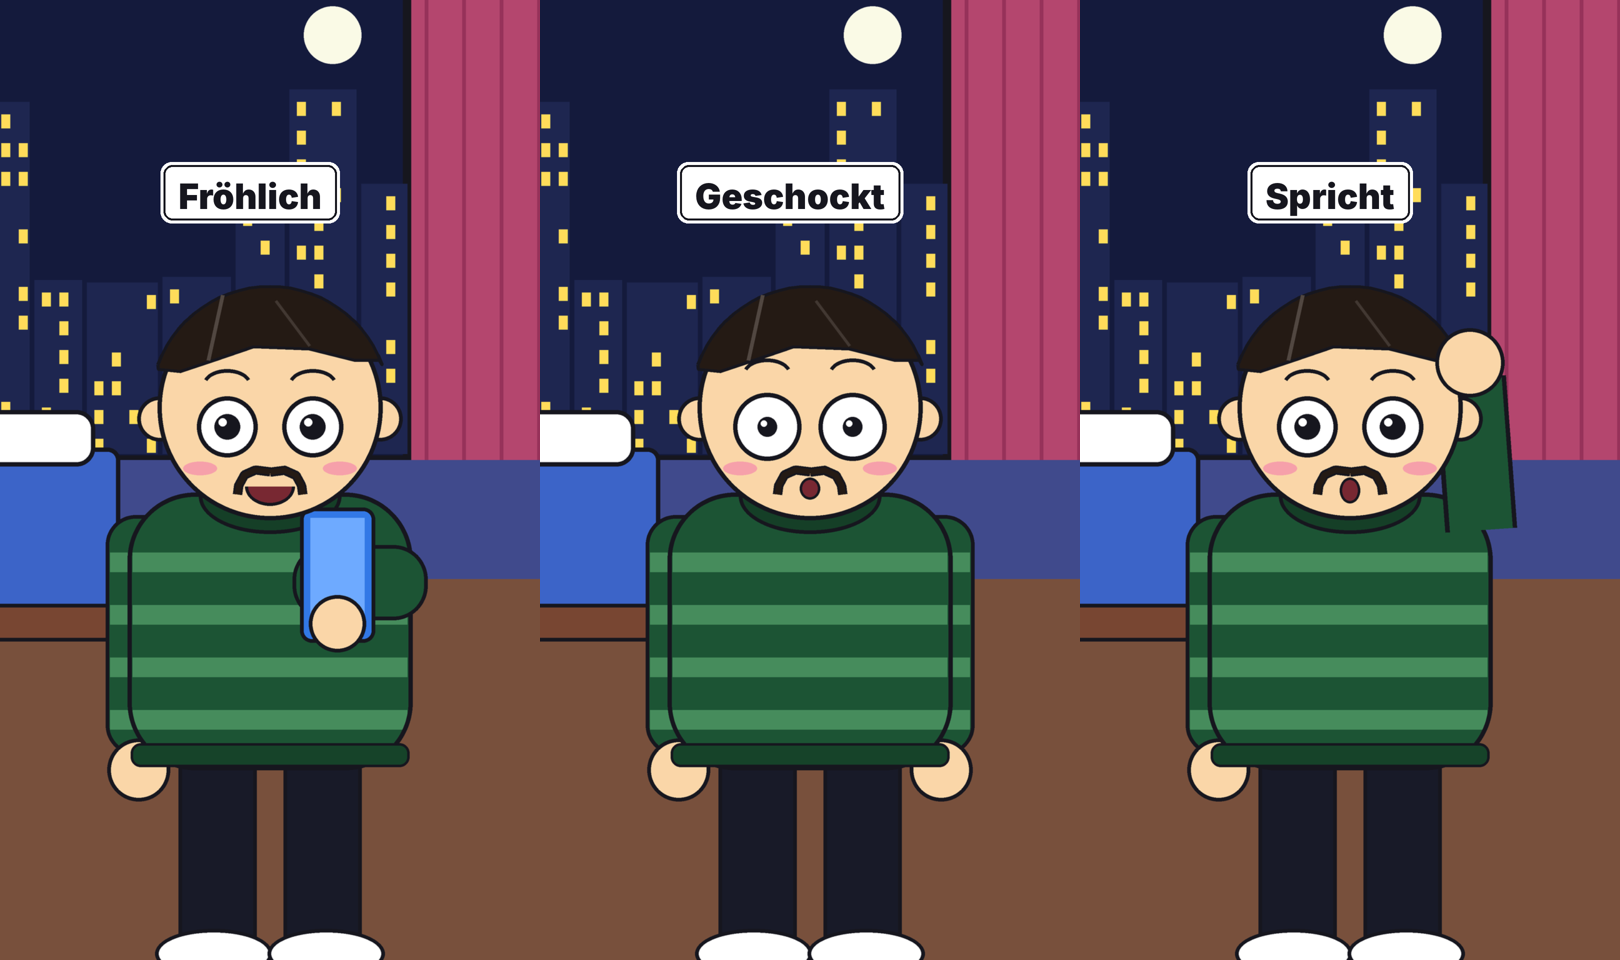
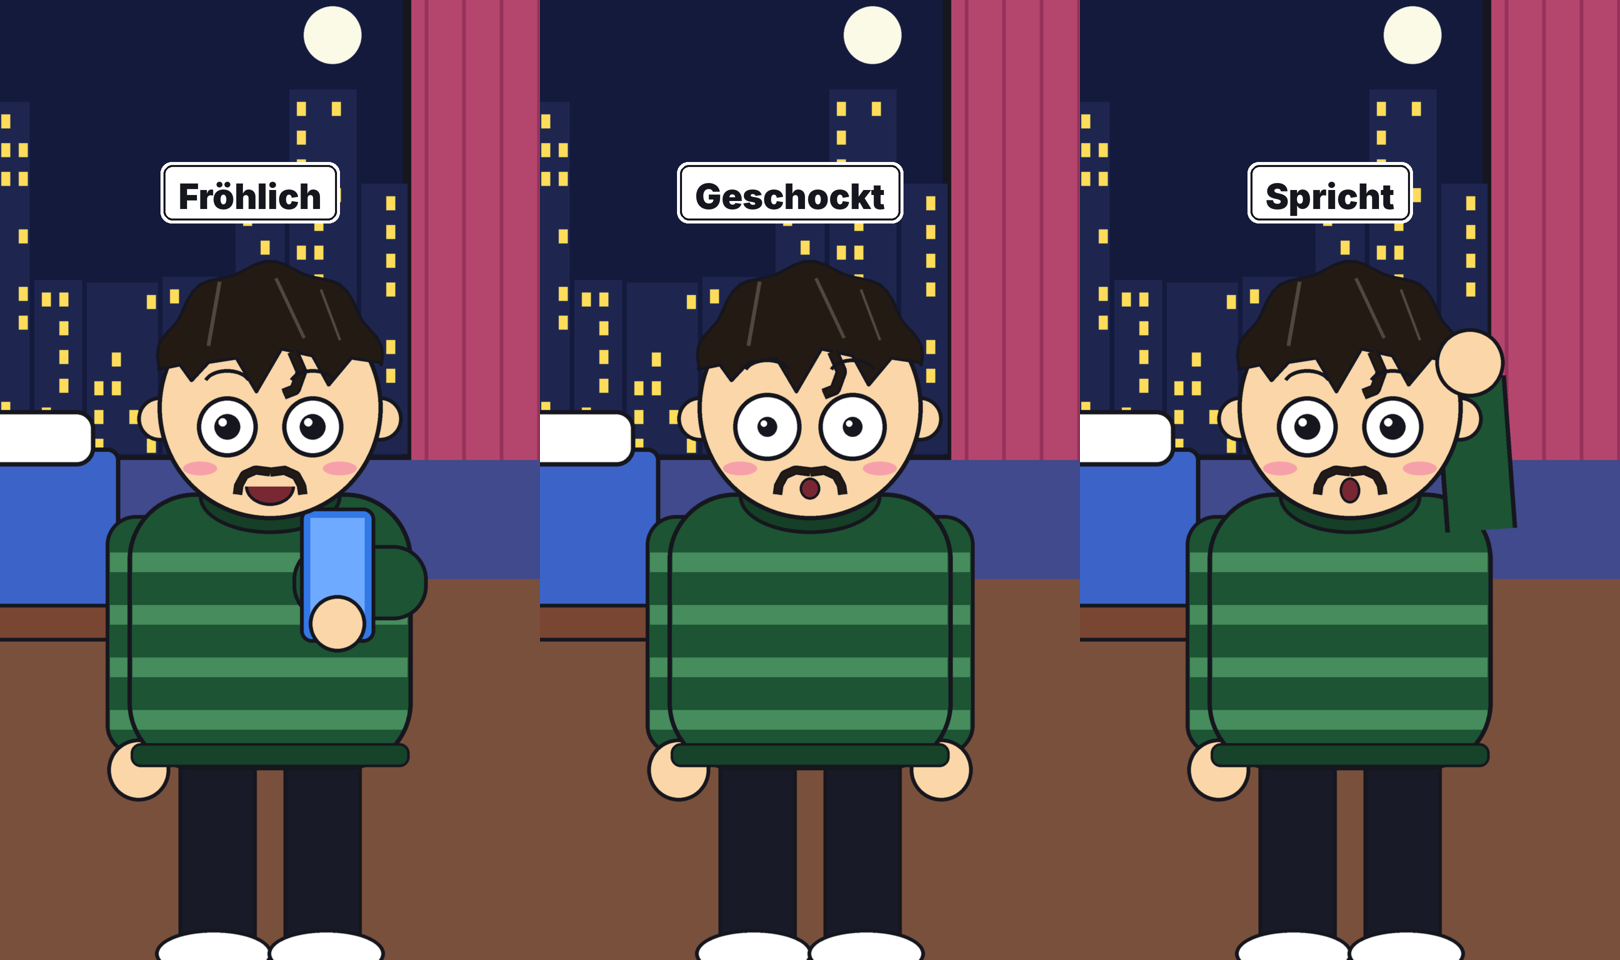
Hairstyle: volume on top and loose strands over the forehead
Claude-Session: https://claude.ai/code/session_01H8VbNop1cYbodEqih19cnK

Changed region(s): [[0.7407, 0.25, 0.8951, 0.4062], [0.4321, 0.25, 0.5864, 0.4062], [0.0926, 0.25, 0.2469, 0.4062]]

diff --git a/tiktok/reich/style3.py b/tiktok/reich/style3.py
@@ -180,16 +180,30 @@ def character(cv, x, y_feet, s=1.0, mood="neutral", arms="phone", blink=False, t
     if bald:  # only a hair ring on the sides
         for sx in (-1, 1):
             cv.ellipse((x + sx * r * 0.62 - r * 0.42, hy - r * 0.55, x + sx * r * 0.62 + r * 0.42, hy + r * 0.2), hair)
-    elif hair_style == "side":  # side part, hair hugs the skull, fringe swept to the right
+    elif hair_style == "side":  # side part, short sides, volume on top, loose strands over the forehead
         import math as _m
-        top = [(x + _m.cos(_m.radians(a_)) * r * 1.06, hy - r * 0.02 + _m.sin(_m.radians(a_)) * r * 1.06)
-               for a_ in range(200, 341, 5)]  # short sides: hair stops well above the ears
-        low = [(x + r * 0.97, hy - r * 0.42), (x + r * 0.75, hy - r * 0.42), (x + r * 0.35, hy - r * 0.52),
-               (x - r * 0.15, hy - r * 0.54), (x - r * 0.5, hy - r * 0.42), (x - r * 0.8, hy - r * 0.32),
+        top = []
+        for a_ in range(200, 341, 4):
+            t_ = (a_ - 200) / 140
+            rad = r * (1.05 + 0.2 * _m.sin(_m.pi * t_) + 0.035 * _m.sin(t_ * _m.pi * 9))
+            top.append((x + _m.cos(_m.radians(a_)) * rad, hy - r * 0.02 + _m.sin(_m.radians(a_)) * rad))
+        low = [(x + r * 0.98, hy - r * 0.4), (x + r * 0.72, hy - r * 0.44),
+               (x + r * 0.52, hy - r * 0.2), (x + r * 0.38, hy - r * 0.46),        # strand 1
+               (x + r * 0.1, hy - r * 0.52),
+               (x - r * 0.12, hy - r * 0.14), (x - r * 0.3, hy - r * 0.44),        # strand 2 (longest)
+               (x - r * 0.55, hy - r * 0.4),
+               (x - r * 0.7, hy - r * 0.24), (x - r * 0.8, hy - r * 0.38),          # strand 3
                (x - r * 0.99, hy - r * 0.34)]
         cv.poly(top + low, hair, INK, 5)
-        cv.line([(x - r * 0.42, hy - r * 1.0), (x - r * 0.55, hy - r * 0.42)], tuple(min(255, c + 45) for c in hair), 6)
-        cv.line([(x + r * 0.05, hy - r * 0.95), (x + r * 0.35, hy - r * 0.55)], tuple(min(255, c + 30) for c in hair), 5)
+        light = tuple(min(255, c + 45) for c in hair)
+        cv.line([(x - r * 0.45, hy - r * 1.12), (x - r * 0.55, hy - r * 0.55)], light, 6)   # parting
+        cv.line([(x + r * 0.05, hy - r * 1.15), (x + r * 0.3, hy - r * 0.62)], light, 5)
+        cv.line([(x + r * 0.45, hy - r * 1.05), (x + r * 0.62, hy - r * 0.6)], light, 4)
+        # one loose curl hanging free in front
+        curl = [(x + r * 0.2, hy - r * 0.5), (x + r * 0.28, hy - r * 0.32), (x + r * 0.22, hy - r * 0.16),
+                (x + r * 0.12, hy - r * 0.12)]
+        cv.line(curl, INK, r * 0.1)
+        cv.line(curl, hair, r * 0.06)
     elif hair_style == "curly":
         cv.d.chord(cv.s((x - r * 1.04, hy - r * 1.05, x + r * 1.04, hy + r * 0.6)), 180, 360, fill=hair)
         import math as _m

diff --git a/CLAUDE.md b/CLAUDE.md
@@ -56,7 +56,7 @@ Der Nutzer hat bei „Der Zeuge“ nicht verstanden, worum es geht. Deshalb ab s
 - Erzählung bleibt in der Du-Form.
 - **Hauptfigur ab Video 12 (Wunsch 06.11.):** dunkle Haare, neue Frisur, **dunkelgrüner Pullover mit
   waagerechten hellgrünen Streifen** (Rundhals, kein Hoodie). Im Code immer `character(..., **T.HERO)`
-  verwenden (`tiktok/reich/style3.py`). Festgelegt: **Frisur A = Seitenscheitel mit kurzen Seiten** (`side`) und
+  verwenden (`tiktok/reich/style3.py`). Festgelegt: **Frisur A = Seitenscheitel, kurze Seiten, Volumen oben, ein paar lockere Strähnen in der Stirn** (`side`) und
   **dünner Schnauzer, der um die Mundwinkel nach unten hängt** (`mustache=True`) – beides ist in `HERO` enthalten. Vorschau: `tiktok/reich/figur_neu_vorschau.png`.
 
 ## Kanal
